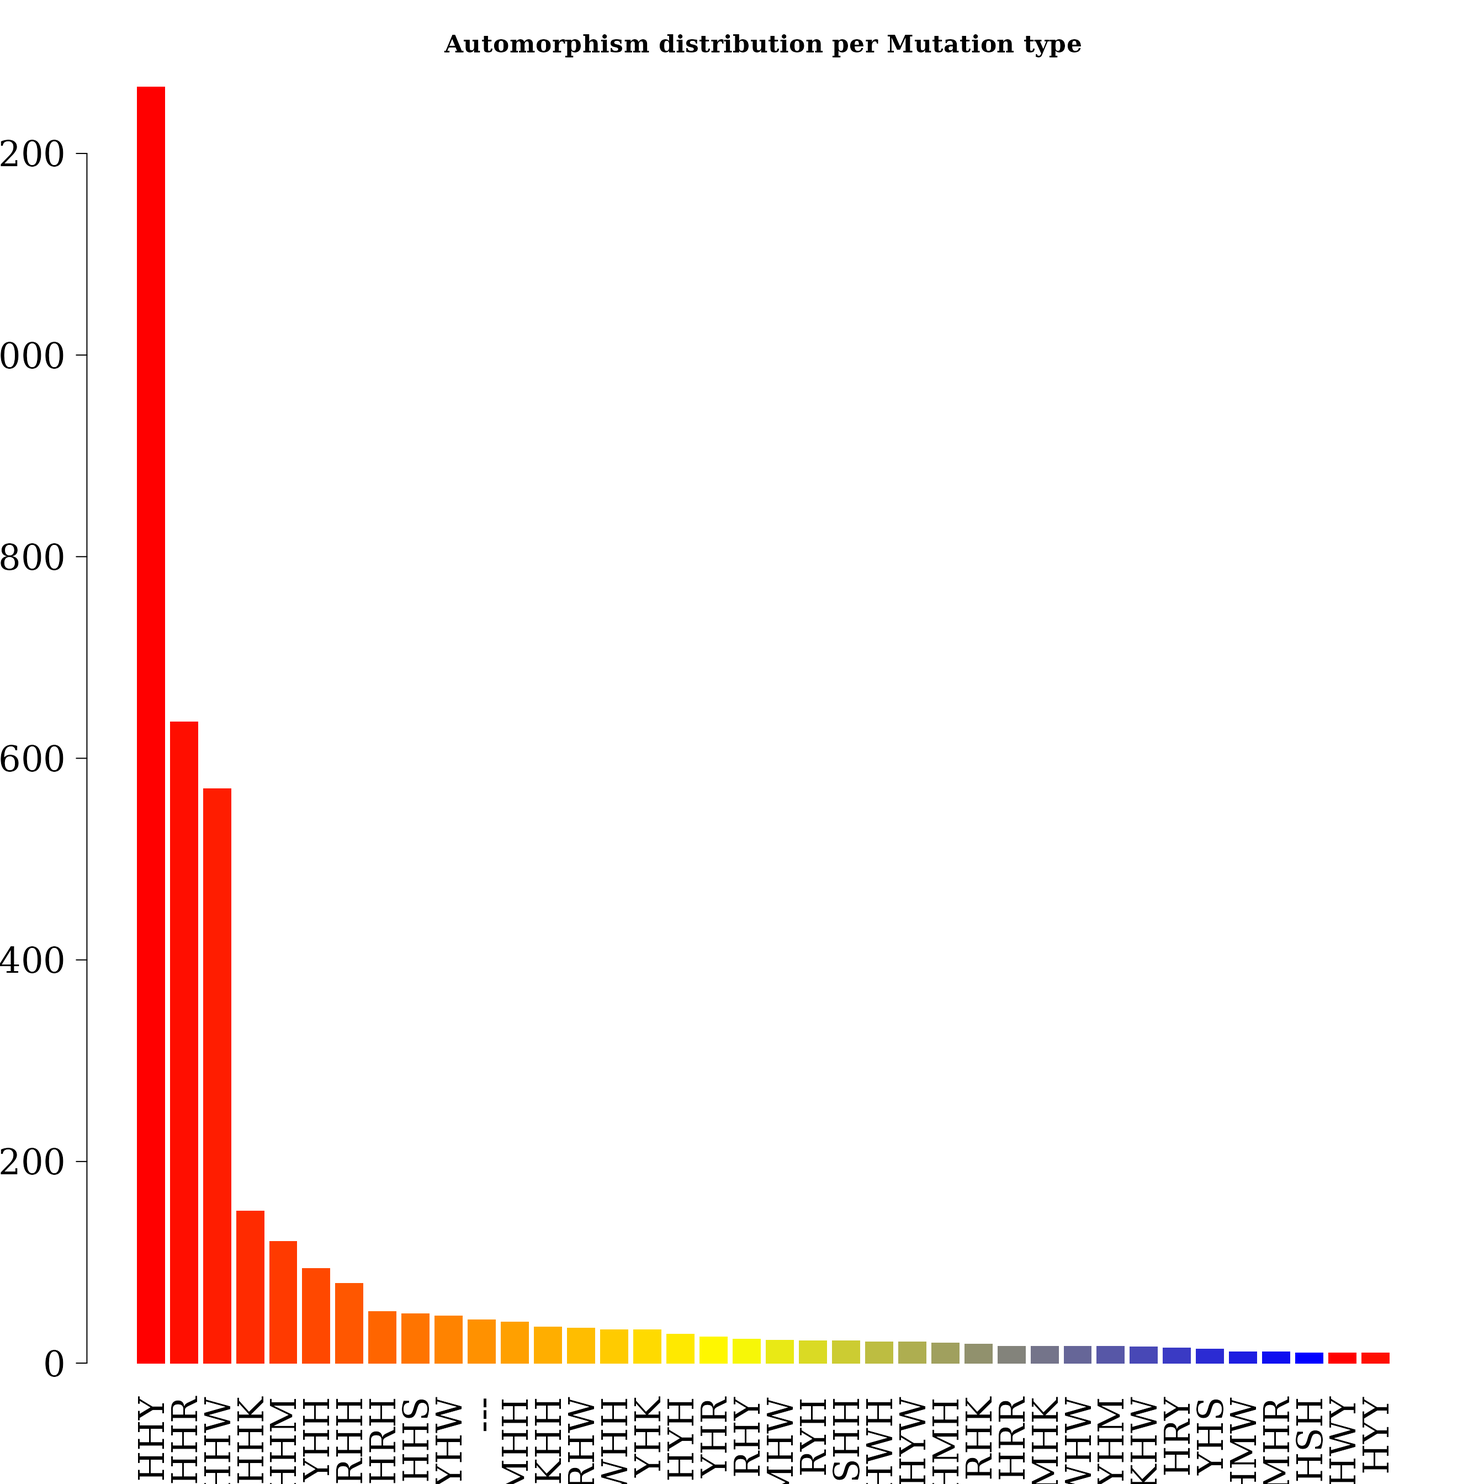
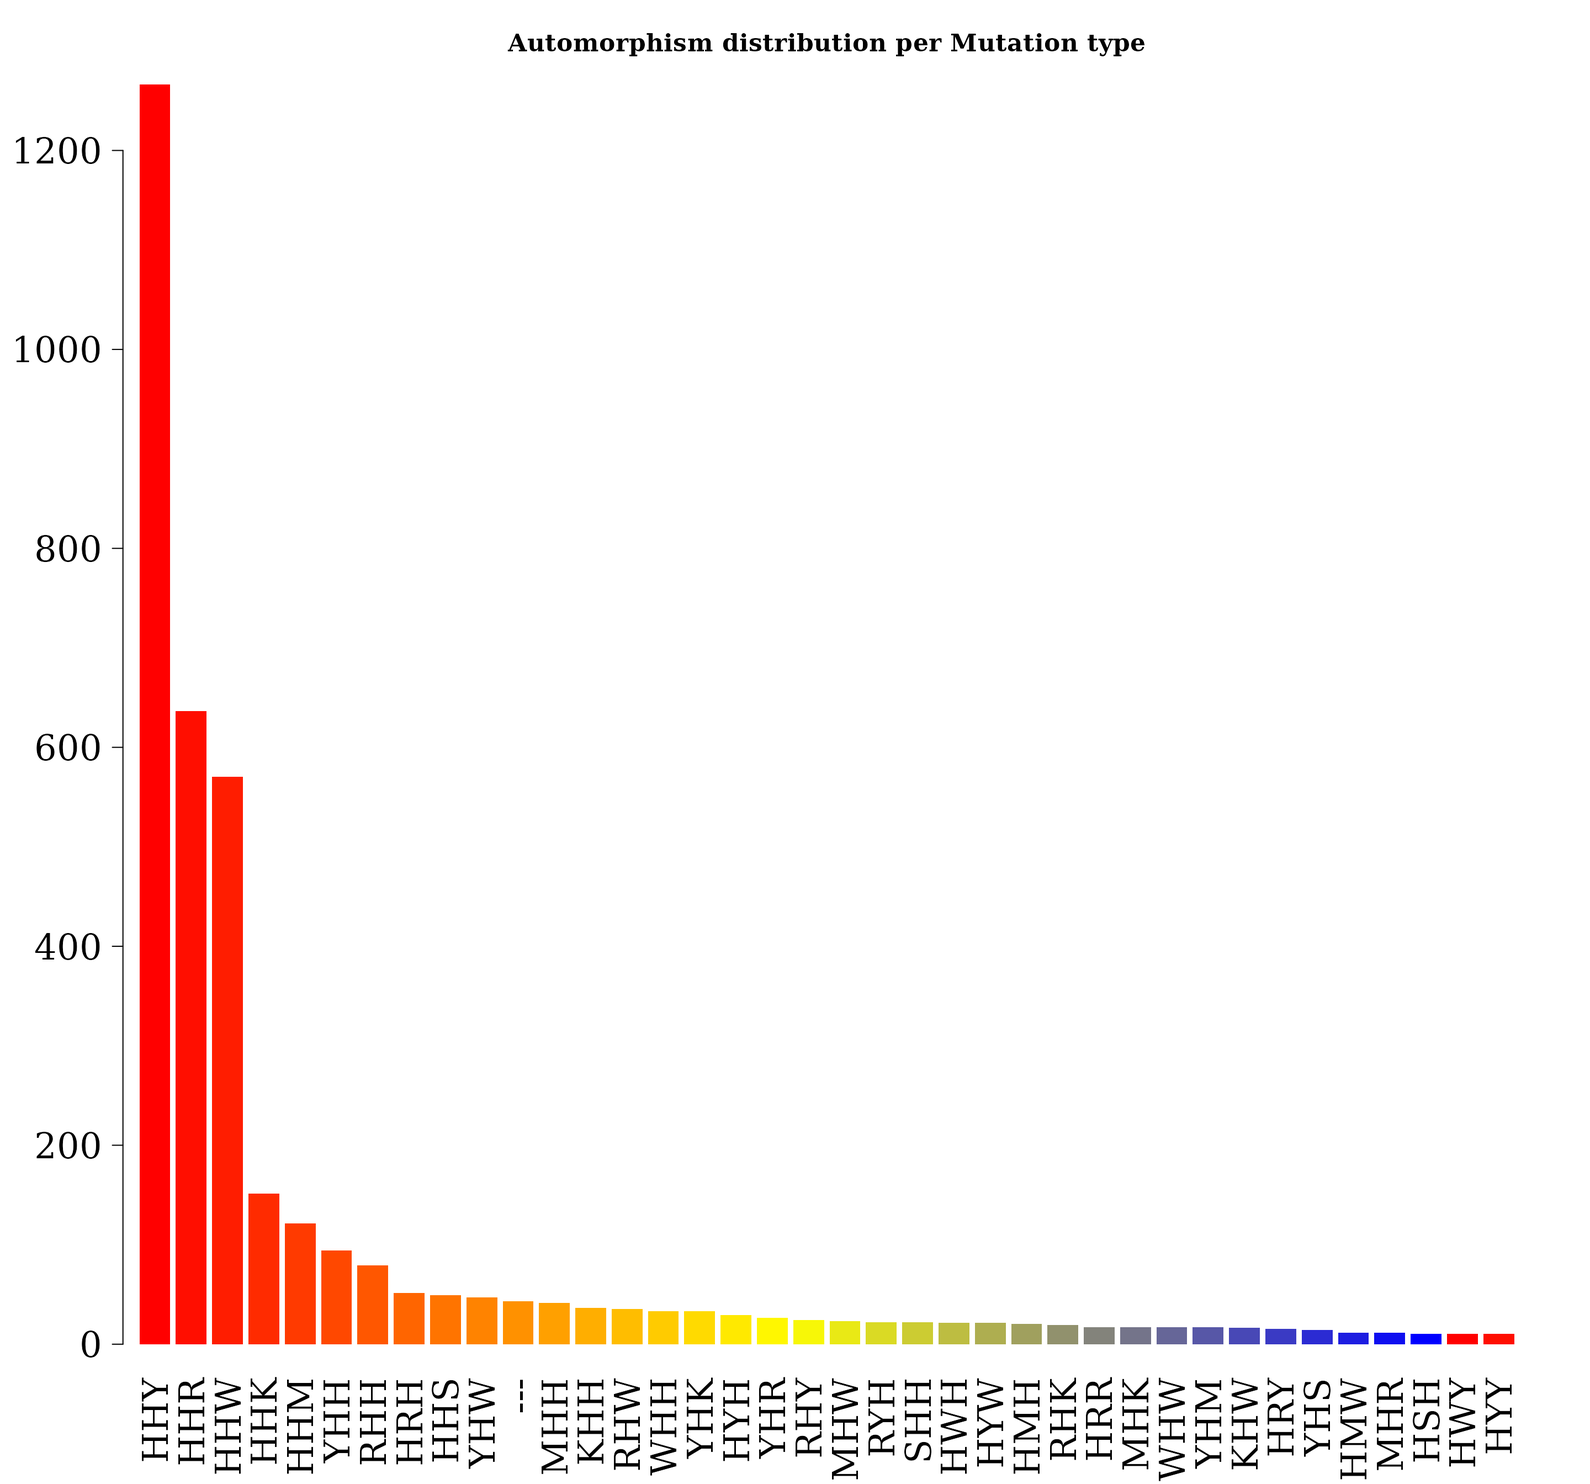
Update vignette

diff --git a/genomautomorphism/articles/covid_19.html b/genomautomorphism/articles/covid_19.html
@@ -126,7 +126,7 @@
       Department of Biology. Pennsylvania State University, University Park, PA 16802<br><a class="author_email" href="mailto:#"></a><a href="mailto:rus547@psu.edu" class="email">rus547@psu.edu</a>
       </address>
                   
-            <h4 class="date">04 March 2022</h4>
+            <h4 class="date">05 March 2022</h4>
       
       <small class="dont-index">Source: <a href="https://github.com/genomaths/GenomAutomorphism/blob/master/vignettes/covid_19.Rmd"><code>vignettes/covid_19.Rmd</code></a></small>
       <div class="hidden name"><code>covid_19.Rmd</code></div>
@@ -188,43 +188,9 @@ code.r{
 </style>
 <div class="sourceCode" id="cb1"><pre class="downlit sourceCode r">
 <code class="sourceCode R"><span class="kw"><a href="https://rdrr.io/r/base/library.html">library</a></span><span class="op">(</span><span class="va"><a href="https://bioconductor.org/packages/Biostrings">Biostrings</a></span><span class="op">)</span>
-<span class="co">#&gt; Loading required package: BiocGenerics</span>
-<span class="co">#&gt; </span>
-<span class="co">#&gt; Attaching package: 'BiocGenerics'</span>
-<span class="co">#&gt; The following objects are masked from 'package:stats':</span>
-<span class="co">#&gt; </span>
-<span class="co">#&gt;     IQR, mad, sd, var, xtabs</span>
-<span class="co">#&gt; The following objects are masked from 'package:base':</span>
-<span class="co">#&gt; </span>
-<span class="co">#&gt;     anyDuplicated, append, as.data.frame, basename, cbind, colnames, dirname, do.call, duplicated, eval,</span>
-<span class="co">#&gt;     evalq, Filter, Find, get, grep, grepl, intersect, is.unsorted, lapply, Map, mapply, match, mget, order,</span>
-<span class="co">#&gt;     paste, pmax, pmax.int, pmin, pmin.int, Position, rank, rbind, Reduce, rownames, sapply, setdiff, sort,</span>
-<span class="co">#&gt;     table, tapply, union, unique, unsplit, which.max, which.min</span>
-<span class="co">#&gt; Loading required package: S4Vectors</span>
-<span class="co">#&gt; Loading required package: stats4</span>
-<span class="co">#&gt; </span>
-<span class="co">#&gt; Attaching package: 'S4Vectors'</span>
-<span class="co">#&gt; The following objects are masked from 'package:base':</span>
-<span class="co">#&gt; </span>
-<span class="co">#&gt;     expand.grid, I, unname</span>
-<span class="co">#&gt; Loading required package: IRanges</span>
-<span class="co">#&gt; Loading required package: XVector</span>
-<span class="co">#&gt; Loading required package: GenomeInfoDb</span>
-<span class="co">#&gt; </span>
-<span class="co">#&gt; Attaching package: 'Biostrings'</span>
-<span class="co">#&gt; The following object is masked from 'package:base':</span>
-<span class="co">#&gt; </span>
-<span class="co">#&gt;     strsplit</span>
 <span class="kw"><a href="https://rdrr.io/r/base/library.html">library</a></span><span class="op">(</span><span class="va"><a href="https://github.com/genomaths/GenomAutomorphism">GenomAutomorphism</a></span><span class="op">)</span>
 <span class="kw"><a href="https://rdrr.io/r/base/library.html">library</a></span><span class="op">(</span><span class="va">usefr</span><span class="op">)</span>
-<span class="co">#&gt; </span>
-<span class="co">#&gt; Attaching package: 'usefr'</span>
-<span class="co">#&gt; The following object is masked from 'package:BiocGenerics':</span>
-<span class="co">#&gt; </span>
-<span class="co">#&gt;     unlist</span>
-<span class="co">#&gt; The following object is masked from 'package:base':</span>
-<span class="co">#&gt; </span>
-<span class="co">#&gt;     unlist</span></code></pre></div>
+<span class="kw"><a href="https://rdrr.io/r/base/library.html">library</a></span><span class="op">(</span><span class="va"><a href="https://www.stefanom.io/latex2exp/">latex2exp</a></span><span class="op">)</span></code></pre></div>
 <div id="sars-coronavirus-gz02-vs-bat-sl-covzc45" class="section level1">
 <h1 class="hasAnchor">
 <a href="#sars-coronavirus-gz02-vs-bat-sl-covzc45" class="anchor"></a>SARS coronavirus GZ02 vs bat-SL-CoVZC45</h1>
@@ -343,20 +309,28 @@ code.r{
 <span class="co">#&gt; </span>
 <span class="co">#&gt; Goodness of fit:</span>
 <span class="co">#&gt;     Adj.R.Square rho R.Cross.val       AIC</span>
-<span class="co">#&gt; gof            1   1   0.9998381 -29782.22</span></code></pre></div>
+<span class="co">#&gt; gof            1   1    0.999838 -29782.22</span></code></pre></div>
 <div class="sourceCode" id="cb8"><pre class="downlit sourceCode r">
-<code class="sourceCode R"><span class="fu"><a href="https://rdrr.io/r/graphics/par.html">par</a></span><span class="op">(</span>lwd <span class="op">=</span> <span class="fl">0.5</span><span class="op">)</span>
+<code class="sourceCode R"><span class="fu"><a href="https://rdrr.io/r/graphics/par.html">par</a></span><span class="op">(</span>lwd <span class="op">=</span> <span class="fl">0.5</span>, cex.axis <span class="op">=</span> <span class="fl">2</span>, cex.lab <span class="op">=</span><span class="fl">1.4</span>,
+    cex.main <span class="op">=</span> <span class="fl">2</span>, mar<span class="op">=</span><span class="fu"><a href="https://rdrr.io/r/base/c.html">c</a></span><span class="op">(</span><span class="fl">5</span>,<span class="fl">6</span>,<span class="fl">4</span>,<span class="fl">4</span><span class="op">)</span>, family <span class="op">=</span> <span class="st">"serif"</span><span class="op">)</span>
 <span class="fu"><a href="https://rdrr.io/r/graphics/hist.html">hist</a></span><span class="op">(</span><span class="va">widths</span>, <span class="fl">14</span>, freq <span class="op">=</span> <span class="cn">FALSE</span>, las <span class="op">=</span> <span class="fl">1</span>, family <span class="op">=</span> <span class="st">"serif"</span>,
-family <span class="op">=</span> <span class="st">"serif"</span>, col <span class="op">=</span> <span class="st">"cyan1"</span>, cex.main <span class="op">=</span> <span class="fl">0.9</span>,
+col <span class="op">=</span> <span class="st">"cyan1"</span>, cex.main <span class="op">=</span> <span class="fl">0.9</span>,
 main <span class="op">=</span> <span class="st">"Histogram and best fitted CDF model for conserved region sizes"</span>,
-xlab <span class="op">=</span> <span class="st">"Conserved region size"</span><span class="op">)</span>
+xlab <span class="op">=</span> <span class="st">"Conserved region size"</span>, yaxt <span class="op">=</span> <span class="st">"n"</span>, ylab<span class="op">=</span><span class="st">""</span>, cex.axis <span class="op">=</span> <span class="fl">1.4</span><span class="op">)</span>
+<span class="fu"><a href="https://rdrr.io/r/graphics/axis.html">axis</a></span><span class="op">(</span>side <span class="op">=</span> <span class="fl">2</span>, cex.axis <span class="op">=</span> <span class="fl">1.4</span>, las <span class="op">=</span> <span class="fl">2</span><span class="op">)</span>
+<span class="fu"><a href="https://rdrr.io/r/graphics/mtext.html">mtext</a></span><span class="op">(</span><span class="st">"Density"</span>, side <span class="op">=</span> <span class="fl">2</span>, cex <span class="op">=</span> <span class="fl">1.4</span>, line <span class="op">=</span> <span class="fl">3.5</span><span class="op">)</span>
+
 <span class="va">x1</span> <span class="op">&lt;-</span> <span class="fu"><a href="https://rdrr.io/r/base/seq.html">seq</a></span><span class="op">(</span><span class="fl">1</span>, <span class="fl">150</span>, by <span class="op">=</span> <span class="fl">1</span><span class="op">)</span>
+<span class="va">txt</span> <span class="op">&lt;-</span> <span class="fu"><a href="https://www.stefanom.io/latex2exp/reference/TeX.html">TeX</a></span><span class="op">(</span><span class="st">r'($f(x) = \frac{\alpha}{\beta\Gamma(\gamma)}{(\frac{x}{\beta})}
+           ^{\alpha\delta-1}e^{(-\frac{x}{\beta})^\alpha}$)'</span><span class="op">)</span>
+
 <span class="fu"><a href="https://rdrr.io/r/graphics/lines.html">lines</a></span><span class="op">(</span><span class="va">x1</span>, <span class="fu"><a href="https://rdrr.io/pkg/usefr/man/ggamma.html">dggamma</a></span><span class="op">(</span><span class="va">x1</span>,
                   alpha <span class="op">=</span> <span class="fu"><a href="https://rdrr.io/r/stats/coef.html">coef</a></span><span class="op">(</span><span class="va">dist2</span><span class="op">$</span><span class="va">bestfit</span><span class="op">)</span><span class="op">[</span><span class="fl">1</span><span class="op">]</span>,
                   scale <span class="op">=</span> <span class="fu"><a href="https://rdrr.io/r/stats/coef.html">coef</a></span><span class="op">(</span><span class="va">dist2</span><span class="op">$</span><span class="va">bestfit</span><span class="op">)</span><span class="op">[</span><span class="fl">2</span><span class="op">]</span>,
                   psi <span class="op">=</span> <span class="fu"><a href="https://rdrr.io/r/stats/coef.html">coef</a></span><span class="op">(</span><span class="va">dist2</span><span class="op">$</span><span class="va">bestfit</span><span class="op">)</span><span class="op">[</span><span class="fl">3</span><span class="op">]</span>
                   <span class="op">)</span>,
-      col <span class="op">=</span> <span class="st">"red"</span>, lwd <span class="op">=</span> <span class="fl">1</span><span class="op">)</span></code></pre></div>
+      col <span class="op">=</span> <span class="st">"red"</span>, lwd <span class="op">=</span> <span class="fl">1</span><span class="op">)</span>
+<span class="fu"><a href="https://rdrr.io/r/graphics/mtext.html">mtext</a></span><span class="op">(</span><span class="va">txt</span>, side <span class="op">=</span> <span class="fl">3</span>, line <span class="op">=</span> <span class="op">-</span><span class="fl">4</span>, cex <span class="op">=</span> <span class="fl">1.4</span>, adj <span class="op">=</span> <span class="fl">0.7</span><span class="op">)</span></code></pre></div>
 <p><img src="covid_19_files/figure-html/hist-1.png" width="576"></p>
 <p>After apply Bootstrap test for Goodness of fit, tt seems to be that we have no reasons to reject the hypothesis that the sizes of conserved regions follows Generalized Gamma distribution.</p>
 <div class="sourceCode" id="cb9"><pre class="downlit sourceCode r">
@@ -368,9 +342,7 @@ xlab <span class="op">=</span> <span class="st">"Conserved region size"</span><s
 <span class="co">#&gt;       KS.stat.D      mc_p.value KS.stat.p.value     sample.size       num.sampl </span>
 <span class="co">#&gt;       0.1671919       1.0000000       0.0000000    3813.0000000     999.0000000</span>
 
-<span class="fu"><a href="https://rdrr.io/r/base/cat.html">cat</a></span><span class="op">(</span><span class="st">"\n===========================\n"</span><span class="op">)</span>
-<span class="co">#&gt; </span>
-<span class="co">#&gt; ===========================</span>
+
 <span class="fu"><a href="https://rdrr.io/pkg/usefr/man/mcgoftest.html">mcgoftest</a></span><span class="op">(</span>
           varobj <span class="op">=</span> <span class="va">widths</span>,
           model <span class="op">=</span> <span class="va">dist2</span>,
@@ -506,20 +478,28 @@ xlab <span class="op">=</span> <span class="st">"Conserved region size"</span><s
 <span class="co">#&gt; Goodness of fit:</span>
 <span class="co">#&gt;     Adj.R.Square       rho R.Cross.val      AIC</span>
 <span class="co">#&gt; gof    0.9999999 0.9999999   0.9995317 -67874.9</span></code></pre></div>
-<p>Joining the datasets increases the sample size and improved predictions</p>
+<p>Joining the datasets increases the sample size and improved predictions in respect to the comparison SARS coronavirus GZ02 vs Bat SARS-like coronavirus alone.</p>
 <div class="sourceCode" id="cb17"><pre class="downlit sourceCode r">
-<code class="sourceCode R"><span class="fu"><a href="https://rdrr.io/r/graphics/par.html">par</a></span><span class="op">(</span>lwd <span class="op">=</span> <span class="fl">0.5</span><span class="op">)</span>
+<code class="sourceCode R"><span class="fu"><a href="https://rdrr.io/r/graphics/par.html">par</a></span><span class="op">(</span>lwd <span class="op">=</span> <span class="fl">0.5</span>, cex.axis <span class="op">=</span> <span class="fl">2</span>, cex.lab <span class="op">=</span><span class="fl">1.4</span>,
+    cex.main <span class="op">=</span> <span class="fl">2</span>, mar<span class="op">=</span><span class="fu"><a href="https://rdrr.io/r/base/c.html">c</a></span><span class="op">(</span><span class="fl">5</span>,<span class="fl">6</span>,<span class="fl">4</span>,<span class="fl">4</span><span class="op">)</span>, family <span class="op">=</span> <span class="st">"serif"</span><span class="op">)</span>
 <span class="fu"><a href="https://rdrr.io/r/graphics/hist.html">hist</a></span><span class="op">(</span><span class="va">widths</span>, <span class="fl">14</span>, freq <span class="op">=</span> <span class="cn">FALSE</span>, las <span class="op">=</span> <span class="fl">1</span>, family <span class="op">=</span> <span class="st">"serif"</span>,
-family <span class="op">=</span> <span class="st">"serif"</span>, col <span class="op">=</span> <span class="st">"cyan1"</span>, cex.main <span class="op">=</span> <span class="fl">0.9</span>,
+col <span class="op">=</span> <span class="st">"cyan1"</span>, cex.main <span class="op">=</span> <span class="fl">0.9</span>,
 main <span class="op">=</span> <span class="st">"Histogram and best fitted CDF model for conserved region sizes"</span>,
-xlab <span class="op">=</span> <span class="st">"Conserved region size"</span><span class="op">)</span>
+xlab <span class="op">=</span> <span class="st">"Conserved region size"</span>, yaxt <span class="op">=</span> <span class="st">"n"</span>, ylab<span class="op">=</span><span class="st">""</span>, cex.axis <span class="op">=</span> <span class="fl">1.4</span><span class="op">)</span>
+<span class="fu"><a href="https://rdrr.io/r/graphics/axis.html">axis</a></span><span class="op">(</span>side <span class="op">=</span> <span class="fl">2</span>, cex.axis <span class="op">=</span> <span class="fl">1.4</span>, las <span class="op">=</span> <span class="fl">2</span><span class="op">)</span>
+<span class="fu"><a href="https://rdrr.io/r/graphics/mtext.html">mtext</a></span><span class="op">(</span><span class="st">"Density"</span>, side <span class="op">=</span> <span class="fl">2</span>, cex <span class="op">=</span> <span class="fl">1.4</span>, line <span class="op">=</span> <span class="fl">3.5</span><span class="op">)</span>
+
 <span class="va">x1</span> <span class="op">&lt;-</span> <span class="fu"><a href="https://rdrr.io/r/base/seq.html">seq</a></span><span class="op">(</span><span class="fl">1</span>, <span class="fl">150</span>, by <span class="op">=</span> <span class="fl">1</span><span class="op">)</span>
+<span class="va">txt</span> <span class="op">&lt;-</span> <span class="fu"><a href="https://www.stefanom.io/latex2exp/reference/TeX.html">TeX</a></span><span class="op">(</span><span class="st">r'($f(x) = \frac{\alpha}{\beta\Gamma(\gamma)}{(\frac{x}{\beta})}
+           ^{\alpha\delta-1}e^{(-\frac{x}{\beta})^\alpha}$)'</span><span class="op">)</span>
+
 <span class="fu"><a href="https://rdrr.io/r/graphics/lines.html">lines</a></span><span class="op">(</span><span class="va">x1</span>, <span class="fu"><a href="https://rdrr.io/pkg/usefr/man/ggamma.html">dggamma</a></span><span class="op">(</span><span class="va">x1</span>,
                   alpha <span class="op">=</span> <span class="fu"><a href="https://rdrr.io/r/stats/coef.html">coef</a></span><span class="op">(</span><span class="va">dist</span><span class="op">$</span><span class="va">bestfit</span><span class="op">)</span><span class="op">[</span><span class="fl">1</span><span class="op">]</span>,
                   scale <span class="op">=</span> <span class="fu"><a href="https://rdrr.io/r/stats/coef.html">coef</a></span><span class="op">(</span><span class="va">dist</span><span class="op">$</span><span class="va">bestfit</span><span class="op">)</span><span class="op">[</span><span class="fl">2</span><span class="op">]</span>,
                   psi <span class="op">=</span> <span class="fu"><a href="https://rdrr.io/r/stats/coef.html">coef</a></span><span class="op">(</span><span class="va">dist</span><span class="op">$</span><span class="va">bestfit</span><span class="op">)</span><span class="op">[</span><span class="fl">3</span><span class="op">]</span>
                   <span class="op">)</span>,
-      col <span class="op">=</span> <span class="st">"red"</span>, lwd <span class="op">=</span> <span class="fl">1</span><span class="op">)</span></code></pre></div>
+      col <span class="op">=</span> <span class="st">"red"</span>, lwd <span class="op">=</span> <span class="fl">1</span><span class="op">)</span>
+<span class="fu"><a href="https://rdrr.io/r/graphics/mtext.html">mtext</a></span><span class="op">(</span><span class="va">txt</span>, side <span class="op">=</span> <span class="fl">3</span>, line <span class="op">=</span> <span class="op">-</span><span class="fl">4</span>, cex <span class="op">=</span> <span class="fl">1.4</span>, adj <span class="op">=</span> <span class="fl">0.7</span><span class="op">)</span></code></pre></div>
 <p><img src="covid_19_files/figure-html/hist2-1.png" width="576"></p>
 <div class="sourceCode" id="cb18"><pre class="downlit sourceCode r">
 <code class="sourceCode R"><span class="fu"><a href="https://rdrr.io/pkg/usefr/man/mcgoftest.html">mcgoftest</a></span><span class="op">(</span> 
@@ -555,11 +535,12 @@ xlab <span class="op">=</span> <span class="st">"Conserved region size"</span><s
 <span class="va">count.</span> <span class="op">&lt;-</span> <span class="va">counts</span><span class="op">[</span> <span class="va">counts</span> <span class="op">&gt;</span> <span class="fl">9</span> <span class="op">]</span>
 
 <span class="fu"><a href="https://rdrr.io/r/graphics/par.html">par</a></span><span class="op">(</span>family <span class="op">=</span> <span class="st">"serif"</span>, cex.axis <span class="op">=</span> <span class="fl">2</span>, font <span class="op">=</span> <span class="fl">2</span>, las <span class="op">=</span> <span class="fl">1</span>, 
-    cex.main <span class="op">=</span> <span class="fl">1.4</span>, cex.lab <span class="op">=</span> <span class="fl">2</span><span class="op">)</span>
+    cex.main <span class="op">=</span> <span class="fl">1.4</span>, cex.lab <span class="op">=</span> <span class="fl">2</span>, mar <span class="op">=</span> <span class="fu"><a href="https://rdrr.io/r/base/c.html">c</a></span><span class="op">(</span><span class="fl">6</span>,<span class="fl">4</span>,<span class="fl">4</span>,<span class="fl">1</span><span class="op">)</span><span class="op">)</span>
 <span class="fu"><a href="https://rdrr.io/r/graphics/barplot.html">barplot</a></span><span class="op">(</span><span class="va">count.</span>, main<span class="op">=</span><span class="st">"Automorphism distribution per Mutation type"</span>,
         col <span class="op">=</span> <span class="fu"><a href="https://rdrr.io/r/grDevices/colorRamp.html">colorRampPalette</a></span><span class="op">(</span><span class="fu"><a href="https://rdrr.io/r/base/c.html">c</a></span><span class="op">(</span><span class="st">"red"</span>, <span class="st">"yellow"</span>, <span class="st">"blue"</span><span class="op">)</span><span class="op">)</span><span class="op">(</span><span class="fl">36</span><span class="op">)</span>, 
-        border <span class="op">=</span> <span class="cn">NA</span>, axes <span class="op">=</span> <span class="cn">TRUE</span>,las<span class="op">=</span><span class="fl">2</span><span class="op">)</span></code></pre></div>
-<p><img src="covid_19_files/figure-html/barplot_3-1.png" width="1344"></p>
+        border <span class="op">=</span> <span class="cn">NA</span>, axes <span class="op">=</span> <span class="cn">FALSE</span>,las<span class="op">=</span><span class="fl">2</span><span class="op">)</span>
+<span class="fu"><a href="https://rdrr.io/r/graphics/axis.html">axis</a></span><span class="op">(</span>side <span class="op">=</span> <span class="fl">2</span>,  cex.axis <span class="op">=</span> <span class="fl">2</span>, line <span class="op">=</span> <span class="op">-</span><span class="fl">1.8</span> <span class="op">)</span></code></pre></div>
+<p><img src="covid_19_files/figure-html/barplot_3-1.png" width="1440"></p>
 <div class="sourceCode" id="cb21"><pre class="downlit sourceCode r">
 <code class="sourceCode R"><span class="va">counts</span>
 <span class="co">#&gt; </span>
